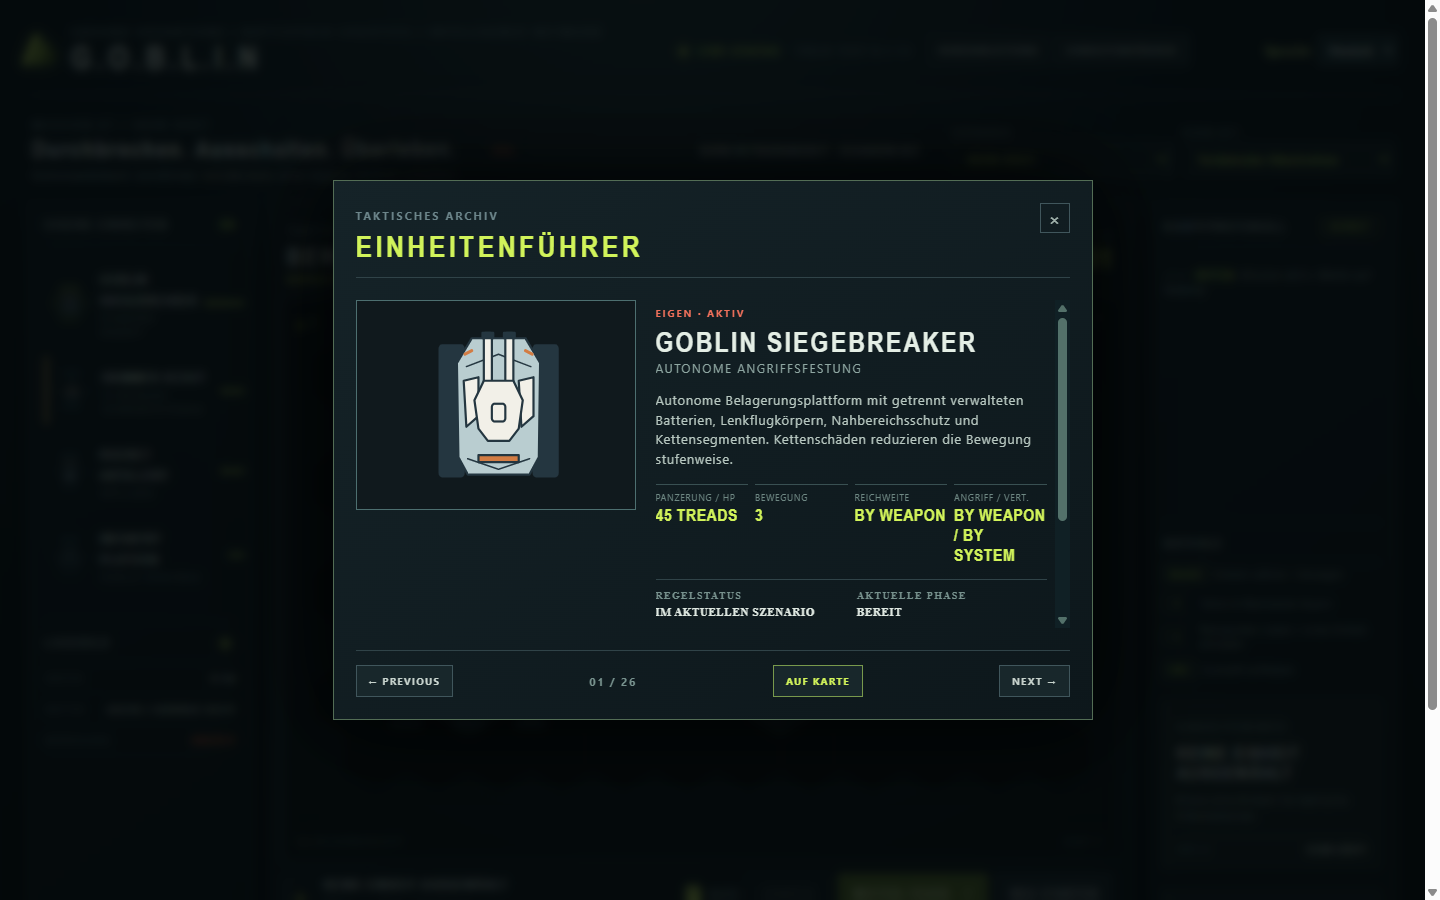
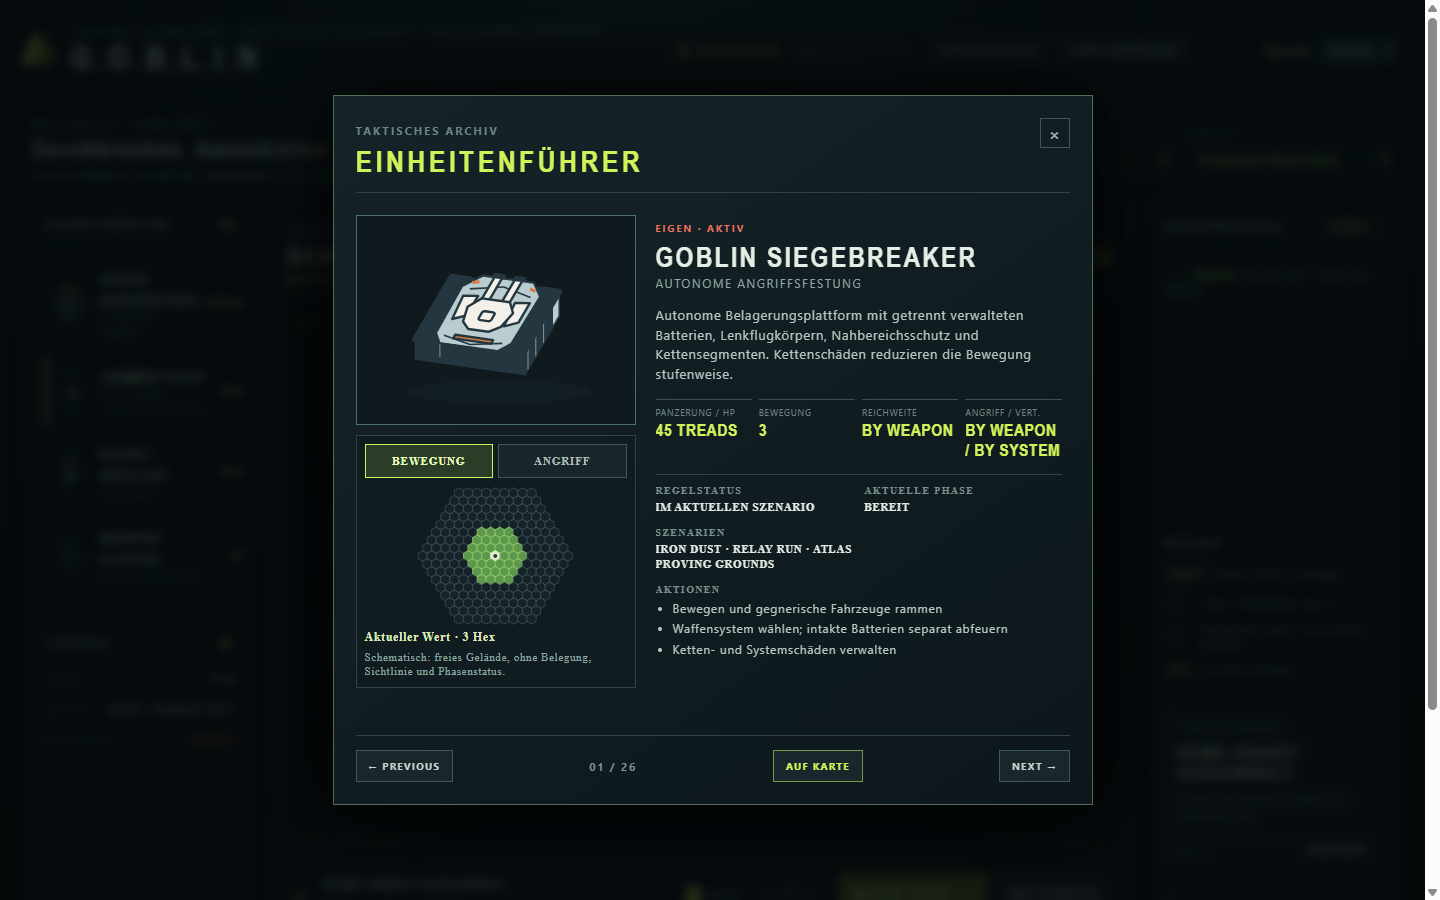
feat: preview unit movement and attack reach in guide

Changed region(s): [[0.2188, 0.0933, 0.75, 0.8711], [0.6875, 0.8089, 0.75, 0.8711], [0.6875, 0.7467, 0.7188, 0.7778]]

diff --git a/unit-guide-range.js b/unit-guide-range.js
@@ -1,0 +1,59 @@
+(function(root){
+  'use strict';
+  const labels={
+    de:{move:'BEWEGUNG',attack:'ANGRIFF',hex:'Hex',none:'Keine Eigenbewegung',unarmed:'Kein Angriff',bonus:'Zusatzmanöver',weapon:'Je nach intakter Waffe',missile:'Ein Raketenangriff; Einschlag trifft auch Nachbarfelder.',spent:'Rakete verbraucht.',preview:'Schematisch: freies Gelände, ohne Belegung, Sichtlinie und Phasenstatus.',catalog:'Katalogwert',live:'Aktueller Wert'},
+    en:{move:'MOVEMENT',attack:'ATTACK',hex:'hexes',none:'No independent movement',unarmed:'No attack',bonus:'Extra maneuver',weapon:'Depends on intact weapon',missile:'One missile; impact also hits adjacent hexes.',spent:'Missile spent.',preview:'Diagram: open terrain; occupancy, line of sight and phase status excluded.',catalog:'Catalog value',live:'Current value'},
+    es:{move:'MOVIMIENTO',attack:'ATAQUE',hex:'hexágonos',none:'Sin movimiento propio',unarmed:'Sin ataque',bonus:'Maniobra adicional',weapon:'Depende del arma intacta',missile:'Un misil; el impacto alcanza hexágonos vecinos.',spent:'Misil agotado.',preview:'Esquema: terreno libre, sin ocupación, línea de visión ni estado de fase.',catalog:'Valor de catálogo',live:'Valor actual'},
+    fr:{move:'DÉPLACEMENT',attack:'ATTAQUE',hex:'hexagones',none:'Aucun déplacement autonome',unarmed:'Aucune attaque',bonus:'Manœuvre supplémentaire',weapon:'Selon l’arme intacte',missile:'Un missile ; l’impact touche aussi les hexagones voisins.',spent:'Missile épuisé.',preview:'Schéma : terrain libre, sans occupation, ligne de vue ni état de phase.',catalog:'Valeur du catalogue',live:'Valeur actuelle'}
+  };
+  const language=()=>labels[root.GoblinLanguage?.current]||labels.de;
+  const number=value=>Math.max(0,Number.parseInt(String(value),10)||0);
+  function profile(entry,live){
+    const movement=live?number(live.move):number(entry.move);
+    const skimmer=/SKIMMER/.test(entry.name)&&entry.name!=='RAIDER SKIMMER';
+    const bonus=skimmer?(live?2:number(String(entry.move).split('+')[1])):0;
+    let range=live?number(live.range):number(String(entry.range).split(/[–-]/).at(-1));
+    let weapon=false;
+    if(entry.name==='GOBLIN SIEGEBREAKER'){
+      weapon=true;
+      if(live?.ogreSystems){
+        const available=Object.values(live.ogreSystems.weapons||{}).filter(item=>item.remaining>0).map(item=>number(item.range));
+        range=available.length?Math.max(...available):0;
+      }
+    }
+    const missile=entry.name==='STRATEGIC MISSILE CARRIER';
+    if(missile&&live&&live.missilesRemaining<=0)range=0;
+    return {movement,bonus,range,weapon,missile,spent:missile&&!!live&&live.missilesRemaining<=0,live:!!live};
+  }
+  const distance=(q,r)=>Math.max(Math.abs(q),Math.abs(r),Math.abs(q+r));
+  function mapSvg(profile,mode){
+    const cells=[];
+    const radius=8,size=8.5;
+    for(let r=-radius;r<=radius;r++)for(let q=-radius;q<=radius;q++){
+      const d=distance(q,r);if(d>radius)continue;
+      const x=Math.sqrt(3)*size*(q+r/2),y=1.5*size*r;
+      const points=Array.from({length:6},(_,i)=>{const a=Math.PI/180*(60*i-30);return `${(x+size*Math.cos(a)).toFixed(1)},${(y+size*Math.sin(a)).toFixed(1)}`}).join(' ');
+      const kind=d===0?'origin':mode==='move'?(d<=profile.movement?'primary':d<=profile.movement+profile.bonus?'bonus':'empty'):(d<=profile.range?'attack':'empty');
+      cells.push(`<polygon class="guide-range-cell ${kind}" points="${points}"/>`);
+    }
+    return `<svg class="guide-range-svg" viewBox="-135 -120 270 240" role="img" aria-hidden="true">${cells.join('')}<circle class="guide-range-center" cx="0" cy="0" r="3"/></svg>`;
+  }
+  let mode='move',current;
+  function render(entry,live){
+    current={entry,live};
+    const p=profile(entry,live),l=language();
+    for(const [key,label] of [['move',l.move],['attack',l.attack]]){
+      const button=document.querySelector(`#guide-range-${key}`);
+      button.textContent=label;
+      button.setAttribute('aria-pressed',String(mode===key));
+    }
+    const summary=mode==='move'?(p.movement?`${p.movement} ${l.hex}`:l.none)+(p.bonus?` + ${p.bonus} ${l.hex} ${l.bonus.toLowerCase()}`:''):(p.range?`${p.range} ${l.hex}`:l.unarmed);
+    const note=mode==='attack'&&p.spent?l.spent:mode==='attack'&&p.missile?l.missile:mode==='attack'&&p.weapon?l.weapon:'';
+    document.querySelector('#guide-range-map').innerHTML=mapSvg(p,mode);
+    document.querySelector('#guide-range-summary').textContent=`${p.live?l.live:l.catalog} · ${summary}`;
+    document.querySelector('#guide-range-note').textContent=[note,l.preview].filter(Boolean).join(' ');
+  }
+  for(const key of ['move','attack'])document.querySelector(`#guide-range-${key}`).onclick=()=>{mode=key;if(current)render(current.entry,current.live)};
+  root.UnitGuideRange=Object.freeze({profile,render,mapSvg});
+  root.addEventListener?.('goblin-language-change',()=>{if(current)render(current.entry,current.live)});
+})(globalThis);

diff --git a/index.html b/index.html
@@ -12,7 +12,7 @@
     <link rel="stylesheet" href="unit-ui.css?v=1" />
       <link rel="stylesheet" href="art-theme.css?v=14" />
       <link rel="stylesheet" href="terrain-ui.css?v=11" />
-      <link rel="stylesheet" href="unit-guide-details.css?v=12" />
+      <link rel="stylesheet" href="unit-guide-details.css?v=15" />
     <style>
       .unit-svg { pointer-events: all; cursor: pointer; visibility: visible; opacity: 1; }
       .unit-svg.wreck { pointer-events: none; cursor: default; }
@@ -188,7 +188,7 @@
     </div>    <div id="unit-guide-modal" class="modal guide-modal hidden" role="dialog" aria-modal="true" aria-labelledby="guide-title">
       <section class="guide-card">
         <div class="guide-head"><div><span class="eyebrow">TACTICAL ARCHIVE</span><h2 id="guide-title">UNIT GUIDE</h2></div><button id="unit-guide-close" class="guide-close" aria-label="Einheitenführer schließen">×</button></div>
-        <div class="guide-body"><div id="guide-symbol" class="guide-symbol">G</div><div class="guide-information"><span id="guide-kicker" class="guide-kicker">FRIENDLY SYSTEM</span><h3 id="guide-name">GOBLIN SIEGEBREAKER</h3><div id="guide-role" class="guide-role">HEAVY ASSAULT</div><p id="guide-copy" class="guide-copy"></p><div id="guide-facts" class="guide-facts"></div><div class="guide-meta"><div><span>REGELSTATUS</span><b id="guide-status"></b></div><div><span>AKTUELLE PHASE</span><b id="guide-phase-status"></b></div><div><span>SZENARIEN</span><b id="guide-scenarios"></b></div></div><div class="guide-action-section"><span>AKTIONEN</span><ul id="guide-action-list"></ul></div></div></div>
+        <div class="guide-body"><div class="guide-visual"><div id="guide-symbol" class="guide-symbol">G</div><section class="guide-range-panel" aria-label="Reichweitenvorschau"><div class="guide-range-switch" role="group" aria-label="Reichweitenansicht"><button id="guide-range-move" type="button" aria-pressed="true">BEWEGUNG</button><button id="guide-range-attack" type="button" aria-pressed="false">ANGRIFF</button></div><div id="guide-range-map" class="guide-range-map"></div><strong id="guide-range-summary" class="guide-range-summary"></strong><p id="guide-range-note" class="guide-range-note"></p></section></div><div class="guide-information"><span id="guide-kicker" class="guide-kicker">FRIENDLY SYSTEM</span><h3 id="guide-name">GOBLIN SIEGEBREAKER</h3><div id="guide-role" class="guide-role">HEAVY ASSAULT</div><p id="guide-copy" class="guide-copy"></p><div id="guide-facts" class="guide-facts"></div><div class="guide-meta"><div><span>REGELSTATUS</span><b id="guide-status"></b></div><div><span>AKTUELLE PHASE</span><b id="guide-phase-status"></b></div><div><span>SZENARIEN</span><b id="guide-scenarios"></b></div></div><div class="guide-action-section"><span>AKTIONEN</span><ul id="guide-action-list"></ul></div></div></div>
         <div class="guide-nav"><button id="guide-prev">← PREVIOUS</button><span id="guide-count" class="guide-count">01 / 26</span><button id="guide-find" disabled>AUF KARTE</button><button id="guide-next">NEXT →</button></div>
       </section>
     </div>
@@ -206,7 +206,8 @@
     <script src="strategic-missile.js?v=1"></script>
     <script src="scenario.js?v=7"></script>
     <script src="atlas-level.js?v=13"></script>
-    <script src="unit-guide.js?v=13"></script>
+    <script src="unit-guide-range.js?v=1"></script>
+    <script src="unit-guide.js?v=14"></script>
     <script src="mobile-views.js?v=1"></script>
     <script src="quick-start.js?v=1"></script>
     <script src="art-theme.js?v=14"></script>

diff --git a/unit-guide-details.css b/unit-guide-details.css
@@ -1,5 +1,21 @@
-.guide-card{display:flex;flex-direction:column}
+.guide-modal .guide-card{display:flex;flex-direction:column;height:min(710px,calc(100vh - 32px))}
 .guide-card .guide-body{min-height:0;flex:1;overflow:hidden}
+.guide-visual{min-width:0;min-height:0;overflow-y:auto;scrollbar-color:#53716a #102025}
+.guide-range-panel{border:1px solid #304348;background:#101c20;margin-top:10px;padding:8px}
+.guide-range-switch{display:grid;grid-template-columns:1fr 1fr;gap:5px}
+.guide-range-switch button{min-height:34px;background:#17262a;border:1px solid #40565c;color:#aebfb8;cursor:pointer;font:700 11px Rajdhani;letter-spacing:.08em}
+.guide-range-switch button[aria-pressed="true"]{border-color:#d1f35a;color:#e7ffc0;background:#2b3c27}
+.guide-range-switch button:focus-visible{outline:2px solid #f4ffcd;outline-offset:2px}
+.guide-range-map{height:148px;display:grid;place-items:center;margin:4px 0 0}
+.guide-range-svg{width:auto;height:100%;max-width:100%;overflow:hidden}
+.guide-range-cell{stroke:#40565c;stroke-width:1;fill:#152328}
+.guide-range-cell.primary{fill:#5c994c;stroke:#a0d770}
+.guide-range-cell.bonus{fill:#456e62;stroke:#7eb6a9}
+.guide-range-cell.attack{fill:#a74c3c;stroke:#ef967f}
+.guide-range-cell.origin{fill:#e0e9cf;stroke:#f4ffcd}
+.guide-range-center{fill:#23322b}
+.guide-range-summary{display:block;color:#dceabb;font:700 12px Rajdhani;line-height:1.3}
+.guide-range-note{color:#8ea6a0;font:500 11px Rajdhani;line-height:1.35;margin:4px 0 0}
 .guide-information{min-width:0;min-height:0;overflow-y:auto;padding-right:8px;scrollbar-color:#53716a #102025}
 .guide-meta{display:grid;grid-template-columns:1fr 1fr;gap:12px;margin-top:14px;padding-top:10px;border-top:1px solid #304348}
 .guide-meta span,.guide-action-section>span{display:block;color:#78928e;font:700 10px Rajdhani;letter-spacing:.13em}
@@ -9,4 +25,4 @@
 .guide-action-section li{margin:4px 0}
 .guide-nav #guide-find{border-color:#78994c;color:#d1f35a}
 .guide-nav #guide-find:disabled{opacity:.35;cursor:not-allowed}
-@media(max-width:560px){.guide-card .guide-body{overflow:auto}.guide-information{overflow:visible}.guide-meta{grid-template-columns:1fr}}
+@media(max-width:560px){.guide-card .guide-body{overflow:auto;grid-template-rows:max-content max-content;align-content:start}.guide-visual{overflow:visible}.guide-visual .guide-symbol.art-active{height:175px;aspect-ratio:auto}.guide-information{overflow:visible}.guide-meta{grid-template-columns:1fr}.guide-range-panel{max-width:280px}.guide-range-map{height:160px}}

diff --git a/unit-guide.js b/unit-guide.js
@@ -72,6 +72,7 @@ function renderUnitGuide(){
   const attack=live?(live.ogreSystems?'BY WEAPON':live.damage):unit.attack;
   const defense=live?(live.ogreSystems?'BY SYSTEM':effectiveDefense(live)):unit.defense;
   document.querySelector('#guide-facts').innerHTML=`<div class="guide-fact"><span>ARMOR / HP</span><b>${hp}</b></div><div class="guide-fact"><span>MOVE</span><b>${move}</b></div><div class="guide-fact"><span>RANGE</span><b>${range}</b></div><div class="guide-fact"><span>ATTACK / DEF</span><b>${attack} / ${defense}</b></div>`;
+  globalThis.UnitGuideRange.render(unit,live);
   const scenarios=Object.entries(scenarioCatalog).filter(([,config])=>config.units.some(item=>item.name===unit.name)).map(([id])=>id.toUpperCase().replaceAll('-',' '));
   document.querySelector('#guide-scenarios').textContent=scenarios.join(' · ')||'CATALOG ONLY';
   document.querySelector('#guide-status').textContent=live?(live.hp<=0?'DESTROYED':live.disabled?'DISABLED':currentScenario==='atlas-proving-grounds'?'ATLAS · PROTOTYPE STATS':'LIVE IN CURRENT SCENARIO'):'NOT IN CURRENT SCENARIO';
